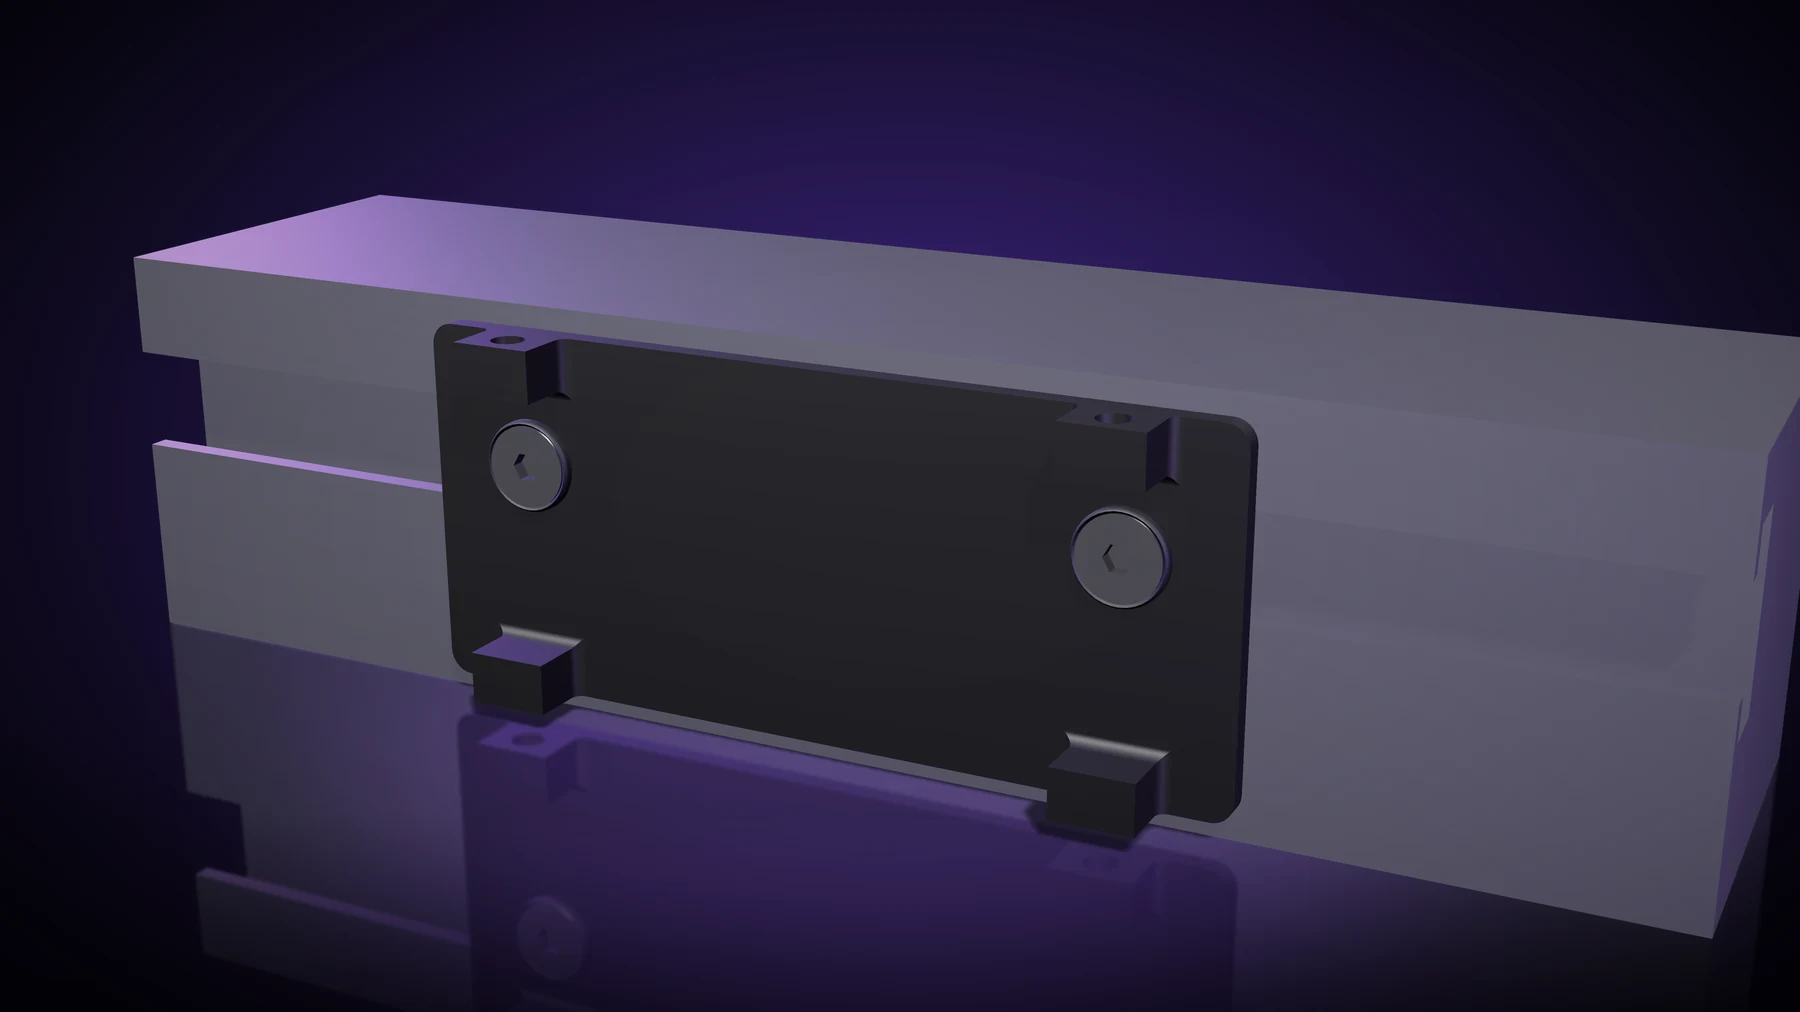
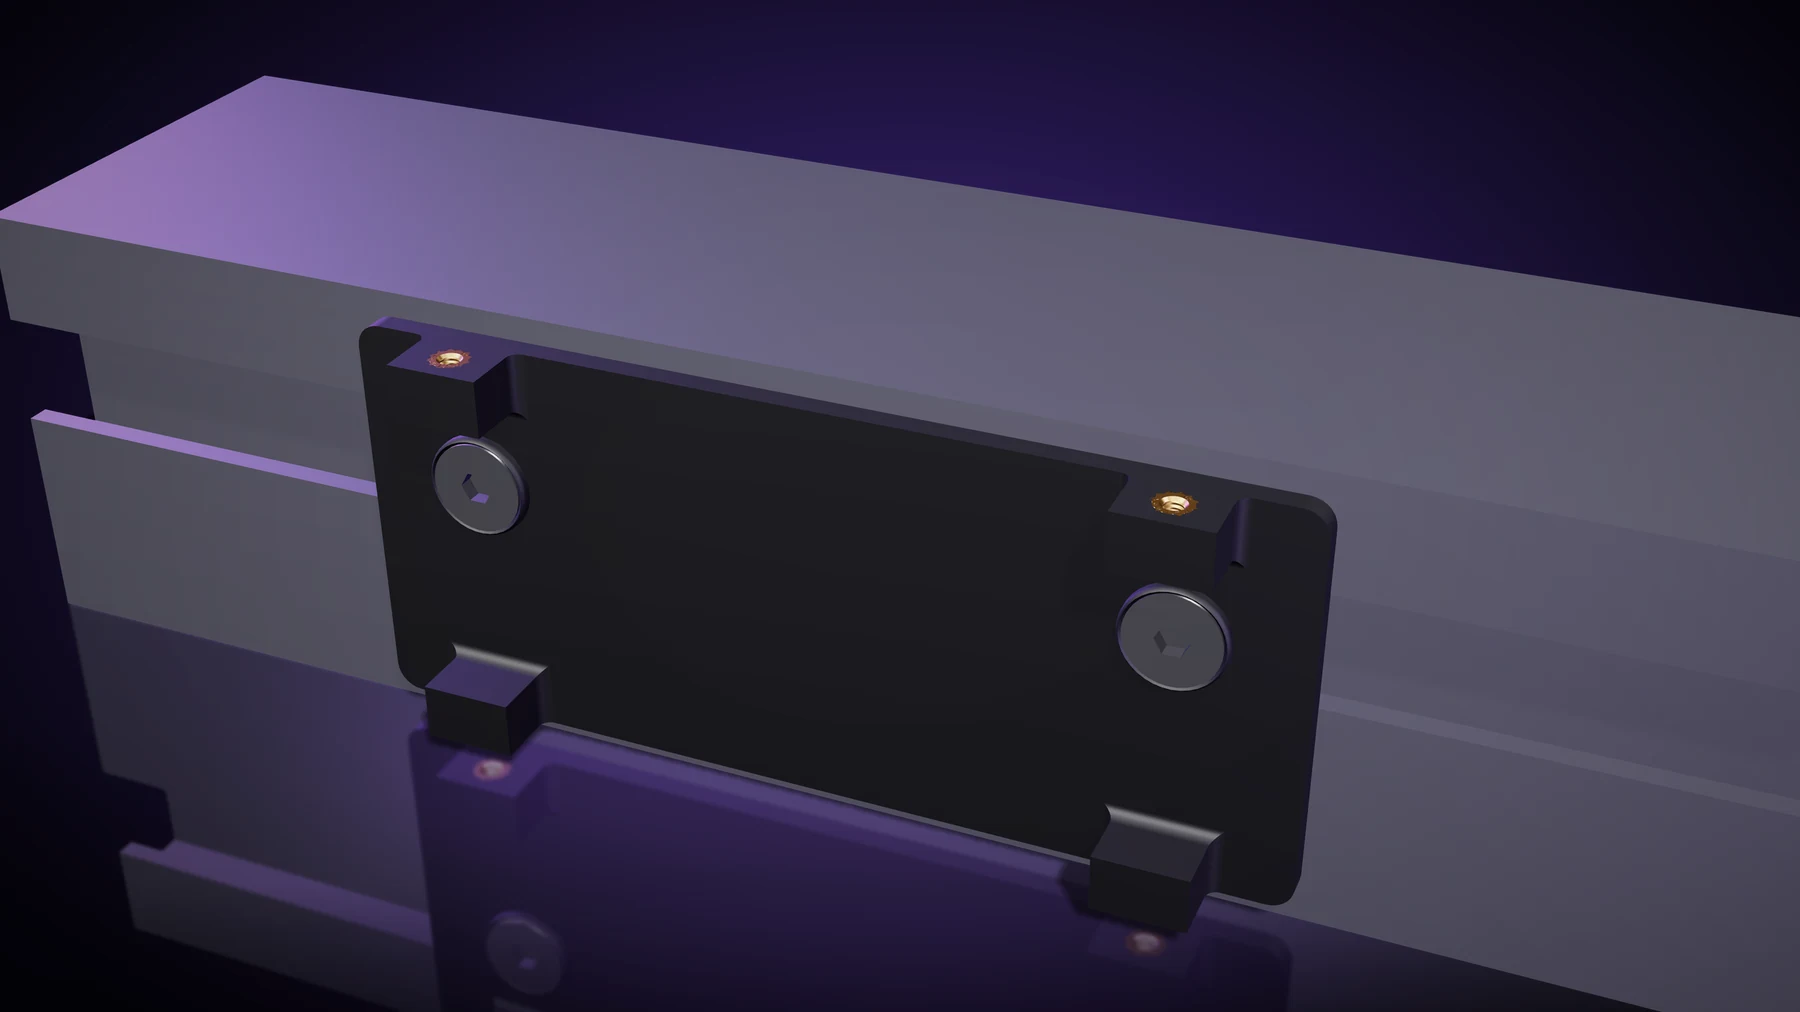
Carousel: base on the rail with the four brass inserts
Claude-Session: https://claude.ai/code/session_017dD8CsxqmC6i7KGPqd1hP3

Changed region(s): [[0.0, 0.0613, 1.0, 1.0], [0.28, 0.8883, 0.3111, 0.919]]

diff --git a/index.html b/index.html
@@ -227,7 +227,7 @@ footer{padding:40px 0;text-align:center;color:var(--muted);font-size:13px;border
     <div class="track" id="track" tabindex="0" aria-label="Enclosure images">
       <figure class="slide on"><img src="img/slide-1.webp" alt="Closed box, front"><figcaption>Closed: it sits flat on the face of the bar.</figcaption></figure>
       <figure class="slide"><img src="img/slide-2.webp" alt="Back of the box with the two T-nuts" loading="lazy"><figcaption>The back, with the two T-nuts that slide into the slot of the bar.</figcaption></figure>
-      <figure class="slide"><img src="img/slide-3.webp" alt="The base plate fixed on a section of the rail with two M4 screws, seen from the front" loading="lazy"><figcaption>The base on the rail: two T-nuts in the slot and two M4 screws hold it in place.</figcaption></figure>
+      <figure class="slide"><img src="img/slide-3.webp" alt="The base plate fixed on a section of the rail with two M4 screws, with the brass inserts in its four tabs" loading="lazy"><figcaption>The base on the rail: two T-nuts in the slot and two M4 screws hold it in place. The four brass inserts take the screws of the box.</figcaption></figure>
       <figure class="slide"><img src="img/slide-4.webp" alt="The empty box seen from the back: the inside of the lid with its two brass inserts and the central rib" loading="lazy"><figcaption>The empty box, from the back: the inside of the lid, with the two brass inserts that take the board's M2 screws.</figcaption></figure>
       <figure class="slide"><img src="img/slide-5.webp" alt="The inside of the box with the back plate removed: the purple board, the CR123A cell in its holder and the connector" loading="lazy"><figcaption>With the electronics: the board with its two M2 screws, the CR123A cell and its holder.</figcaption></figure>
       <figure class="slide"><img src="img/slide-6.webp" alt="The box in clear glass with the board, inserts and screws in place" loading="lazy"><figcaption>The box in clear glass: board, inserts and screws in place.</figcaption></figure>
